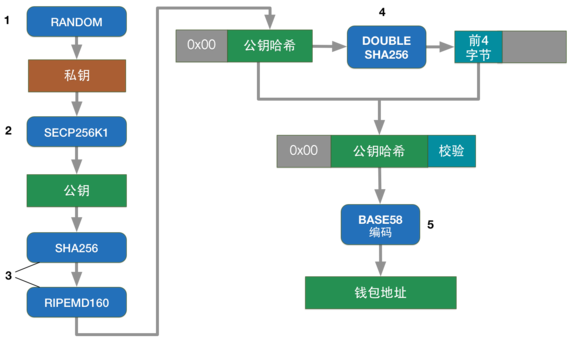
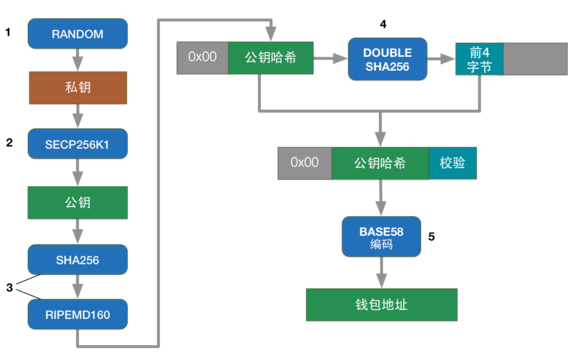
update

Changed region(s): [[0.0, 0.0, 1.0, 1.0], [0.0, 0.0, 0.2386, 0.4425]]

diff --git a/source/_posts/business/bitcoin/release-密钥和地址.md b/source/_posts/business/bitcoin/release-密钥和地址.md
@@ -7,7 +7,9 @@ categories: [business, bitcoin]
 <!-- TOC -->
 
 - [1. 说明](#1-说明)
-- [2. 参考资料](#2-参考资料)
+- [2. libbitcoin梳理P2PKH地址的关系](#2-libbitcoin梳理p2pkh地址的关系)
+- [3. libbitcoin梳理P2SH地址的关系](#3-libbitcoin梳理p2sh地址的关系)
+- [4. 参考资料](#4-参考资料)
 
 <!-- /TOC -->
 
@@ -22,65 +24,153 @@ categories: [business, bitcoin]
 流程图:  
 ![](./pic/address-generation-extra.png)
 
-(以上图片截取自互联网)
+(图片来源: 互联网)
 
-由于椭圆曲线生成的公钥可以被压缩,所以如下图我们按照两个线路来梳理私钥,公钥,公钥哈希,钱包地址的关系.
+![](https://en.bitcoin.it/w/images/en/4/48/Address_map.jpg)
 
-![](./pic/convert.png)
+(图片来源: https://en.bitcoin.it/wiki/Address)
 
-
-安装libbitcoin-explorer
+<a id="markdown-2-libbitcoin梳理p2pkh地址的关系" name="2-libbitcoin梳理p2pkh地址的关系"></a>
+# 2. libbitcoin梳理P2PKH地址的关系
+安装libbitcoin-explorer:
 ```bash
 wget https://github.com/libbitcoin/libbitcoin-explorer/releases/download/v3.2.0/bx-linux-x64-qrcode
 sudo mv bx-linux-x64-qrcode /usr/local/bin/bx
 chmod +x /usr/local/bin/bx
 ```
 
-公钥未压缩:
-```bash
-PRIKEY=`bx seed | bx ec-new`
-PRIKEYWIF=`bx ec-to-wif -u $PRIKEY`
-PUBKEY=`bx wif-to-public $PRIKEYWIF`
-PUBKEYHASH=`bx sha256 $PUBKEY | bx ripemd160`
-ADDRESS=`bx ec-to-address $PUBKEY`
-URL=`bx uri-encode $ADDRESS`
-QRCODE=`bx qrcode -p $ADDRESS`
-echo 私钥: $PRIKEY &&
-echo 私钥WIF: $PRIKEYWIF &&
-echo 公钥: $PUBKEY  &&
-echo 公钥hash: $PUBKEYHASH  &&
-echo 地址: $ADDRESS &&
-echo URL: $URL
+提供以下shell脚本方便日常使用:  
 
-# 生成二维码
-echo $QRCODE > /tmp/1.png
+* parse_privkey 解析私钥
+* parse_privkeywif 解析私钥wif
+* parse_pubkey_uncompressed 解析未压缩公钥
+* parse_pubkey_compressed 解析压缩公钥
+* parse_pubkeyhash 公钥哈系 -> 钱包地址
+* parse_address  钱包地址 -> 公钥哈系
+
+```bash
+# 私钥 -> 公钥 -> 公钥哈系 -> 钱包地址:
+parse_privkey() {
+    PRIKEY=$1
+    PRIKEY_WIF_UNCOMPRESSED=`bx ec-to-wif -u $PRIKEY`
+    PUBKEY_UNCOMPRESSED=`bx wif-to-public $PRIKEY_WIF_UNCOMPRESSED`
+    PUBKEYHASH_UNCOMPRESSED=`bx sha256 $PUBKEY_UNCOMPRESSED | bx ripemd160`
+    P2PKHADDRESS_UNCOMPRESSED=`bx address-encode -v 0 $PUBKEYHASH_UNCOMPRESSED`
+    URI_UNCOMPRESSED=`bx uri-encode $P2PKHADDRESS_UNCOMPRESSED`
+    QRCODE_UNCOMPRESSED=`bx qrcode -p $P2PKHADDRESS_UNCOMPRESSED`
+
+    echo "[未压缩]" &&
+    echo 私钥: $PRIKEY &&
+    echo 私钥WIF: $PRIKEY_WIF_UNCOMPRESSED &&
+    echo 公钥: $PUBKEY_UNCOMPRESSED &&
+    echo 公钥hash: $PUBKEYHASH_UNCOMPRESSED &&
+    echo P2PKH地址: $P2PKHADDRESS_UNCOMPRESSED &&
+    echo URI: $URI_UNCOMPRESSED 
+
+    echo $QRCODE_UNCOMPRESSED > /tmp/uncompressed.png
+
+    PRIKEY_WIF_COMPRESSED=`bx ec-to-wif $PRIKEY`
+    PUBKEY_COMPRESSED=`bx wif-to-public $PRIKEY_WIF_COMPRESSED`
+    PUBKEYHASH_COMPRESSED=`bx sha256 $PUBKEY_COMPRESSED | bx ripemd160`
+    P2PKHADDRESS_COMPRESSED=`bx address-encode -v 0 $PUBKEYHASH_COMPRESSED`
+    URI_COMPRESSED=`bx uri-encode $P2PKHADDRESS_COMPRESSED`
+    QRCODE_COMPRESSED=`bx qrcode -p $P2PKHADDRESS_COMPRESSED`
+
+    echo "[压缩]" &&
+    echo 私钥: $PRIKEY &&
+    echo 私钥WIF: $PRIKEY_WIF_COMPRESSED &&
+    echo 公钥: $PUBKEY_COMPRESSED &&
+    echo 公钥hash: $PUBKEYHASH_COMPRESSED &&
+    echo P2PKH地址: $P2PKHADDRESS_COMPRESSED &&
+    echo URI: $URI_COMPRESSED 
+
+    echo $QRCODE_COMPRESSED > /tmp/compressed.png
+} 
+
+# 私钥wif -> 私钥 -> 公钥 -> 公钥哈系 -> 钱包地址:
+parse_privkeywif() {
+    PRIKEYWIF=$1
+    parse_privkey `bx wif-to-ec $PRIKEYWIF`
+}
+
+# 公钥[未压缩] -> 公钥哈系 -> 钱包地址
+parse_pubkey_uncompressed() {
+    PUBKEY_UNCOMPRESSED=$1
+    PUBKEYHASH_UNCOMPRESSED=`bx sha256 $PUBKEY_UNCOMPRESSED | bx ripemd160`
+    P2PKHADDRESS_UNCOMPRESSED=`bx address-encode -v 0 $PUBKEYHASH_UNCOMPRESSED`
+    URI_UNCOMPRESSED=`bx uri-encode $P2PKHADDRESS_UNCOMPRESSED`
+    echo "[未压缩]" &&
+    echo 公钥: $PUBKEY_UNCOMPRESSED &&
+    echo 公钥hash: $PUBKEYHASH_UNCOMPRESSED &&
+    echo P2PKH地址: $P2PKHADDRESS_UNCOMPRESSED &&
+    echo URI: $URI_UNCOMPRESSED 
+}
+
+# 公钥[压缩] -> 公钥哈系 -> 钱包地址
+parse_pubkey_compressed() {
+    PUBKEY_COMPRESSED=$1
+    PUBKEYHASH_COMPRESSED=`bx sha256 $PUBKEY_COMPRESSED | bx ripemd160`
+    P2PKHADDRESS_COMPRESSED=`bx address-encode -v 0 $PUBKEYHASH_COMPRESSED`
+    URI_COMPRESSED=`bx uri-encode $P2PKHADDRESS_COMPRESSED`
+    echo "[压缩]" &&
+    echo 公钥: $PUBKEY_COMPRESSED &&
+    echo 公钥hash: $PUBKEYHASH_COMPRESSED &&
+    echo P2PKH地址: $P2PKHADDRESS_COMPRESSED &&
+    echo URI: $URI_COMPRESSED 
+}
+
+# 公钥哈系 -> 钱包地址
+parse_pubkeyhash() {
+    PUBKEYHASH=$1
+    P2PKHADDRESS=`bx address-encode -v 0 $PUBKEYHASH`
+    URI=`bx uri-encode $P2PKHADDRESS`
+    echo 公钥hash: $PUBKEYHASH &&
+    echo P2PKH地址: $P2PKHADDRESS &&
+    echo URI: $URI 
+}
+
+# 钱包地址 -> 公钥哈系
+parse_address() {
+    P2PKHADDRESS=$1
+    PUBKEYHASH=`bx address-decode  $P2PKHADDRESS`
+    URI=`bx uri-encode $P2PKHADDRESS`
+    echo 公钥hash: $PUBKEYHASH &&
+    echo P2PKH地址: $P2PKHADDRESS &&
+    echo URI: $URI 
+}
+
+# 创建新私钥
+parse_privkey `bx seed | bx ec-new`
 ```
 
-公钥压缩:
-```bash
-PRIKEY=`bx seed | bx ec-new`
-PRIKEYWIF=`bx ec-to-wif $PRIKEY`
-PUBKEY=`bx wif-to-public $PRIKEYWIF`
-PUBKEYHASH=`bx sha256 $PUBKEY | bx ripemd160`
-ADDRESS=`bx ec-to-address $PUBKEY`
-URL=`bx uri-encode $ADDRESS`
-QRCODE=`bx qrcode -p $ADDRESS`
-echo 私钥: $PRIKEY &&
-echo 私钥WIF: $PRIKEYWIF &&
-echo 公钥: $PUBKEY  &&
-echo 公钥hash: $PUBKEYHASH &&
-echo 地址: $ADDRESS &&
-echo URL: $URL
+<a id="markdown-3-libbitcoin梳理p2sh地址的关系" name="3-libbitcoin梳理p2sh地址的关系"></a>
+# 3. libbitcoin梳理P2SH地址的关系
 
-# 生成二维码
-echo $QRCODE > /tmp/1.png
+```bash
+echo "dup hash160 [e0a9980de27a65fc49069fce46fefbff9d6990ce] equalverify checksig" |  bx script-encode  | bx sha256 | bx ripemd160 | bx base58check-encode --version 5
 ```
 
-<a id="markdown-2-参考资料" name="2-参考资料"></a>
-# 2. 参考资料
+<a id="markdown-4-参考资料" name="4-参考资料"></a>
+# 4. 参考资料
 
-* https://www.bitaddress.org/ (地址生成)
-* https://en.bitcoin.it/wiki/List_of_address_prefixes (prefix)
+上文命令行参考:  
+
 * https://github.com/libbitcoin/libbitcoin-explorer (libbitcoin-explorer)
 * https://github.com/libbitcoin/libbitcoin-explorer/wiki/Wallet-Commands (libbitcoin-explorer command)
+
+地址生成工具:  
+
+* https://www.bitaddress.org/ (web地址生成)
+
+原理解释:  
+
+* https://en.bitcoin.it/wiki/Wallet_import_format (私钥->wif, wif->私钥)
+* https://en.bitcoin.it/wiki/Technical_background_of_version_1_Bitcoin_addresses (生成比特币地址)
+
+便捷查询:  
+
+* https://en.bitcoin.it/wiki/List_of_address_prefixes (prefix)
+
+书籍参考:  
+
 * http://book.8btc.com/books/6/masterbitcoin2cn/_book/ch04.html (精通比特币第四章)
